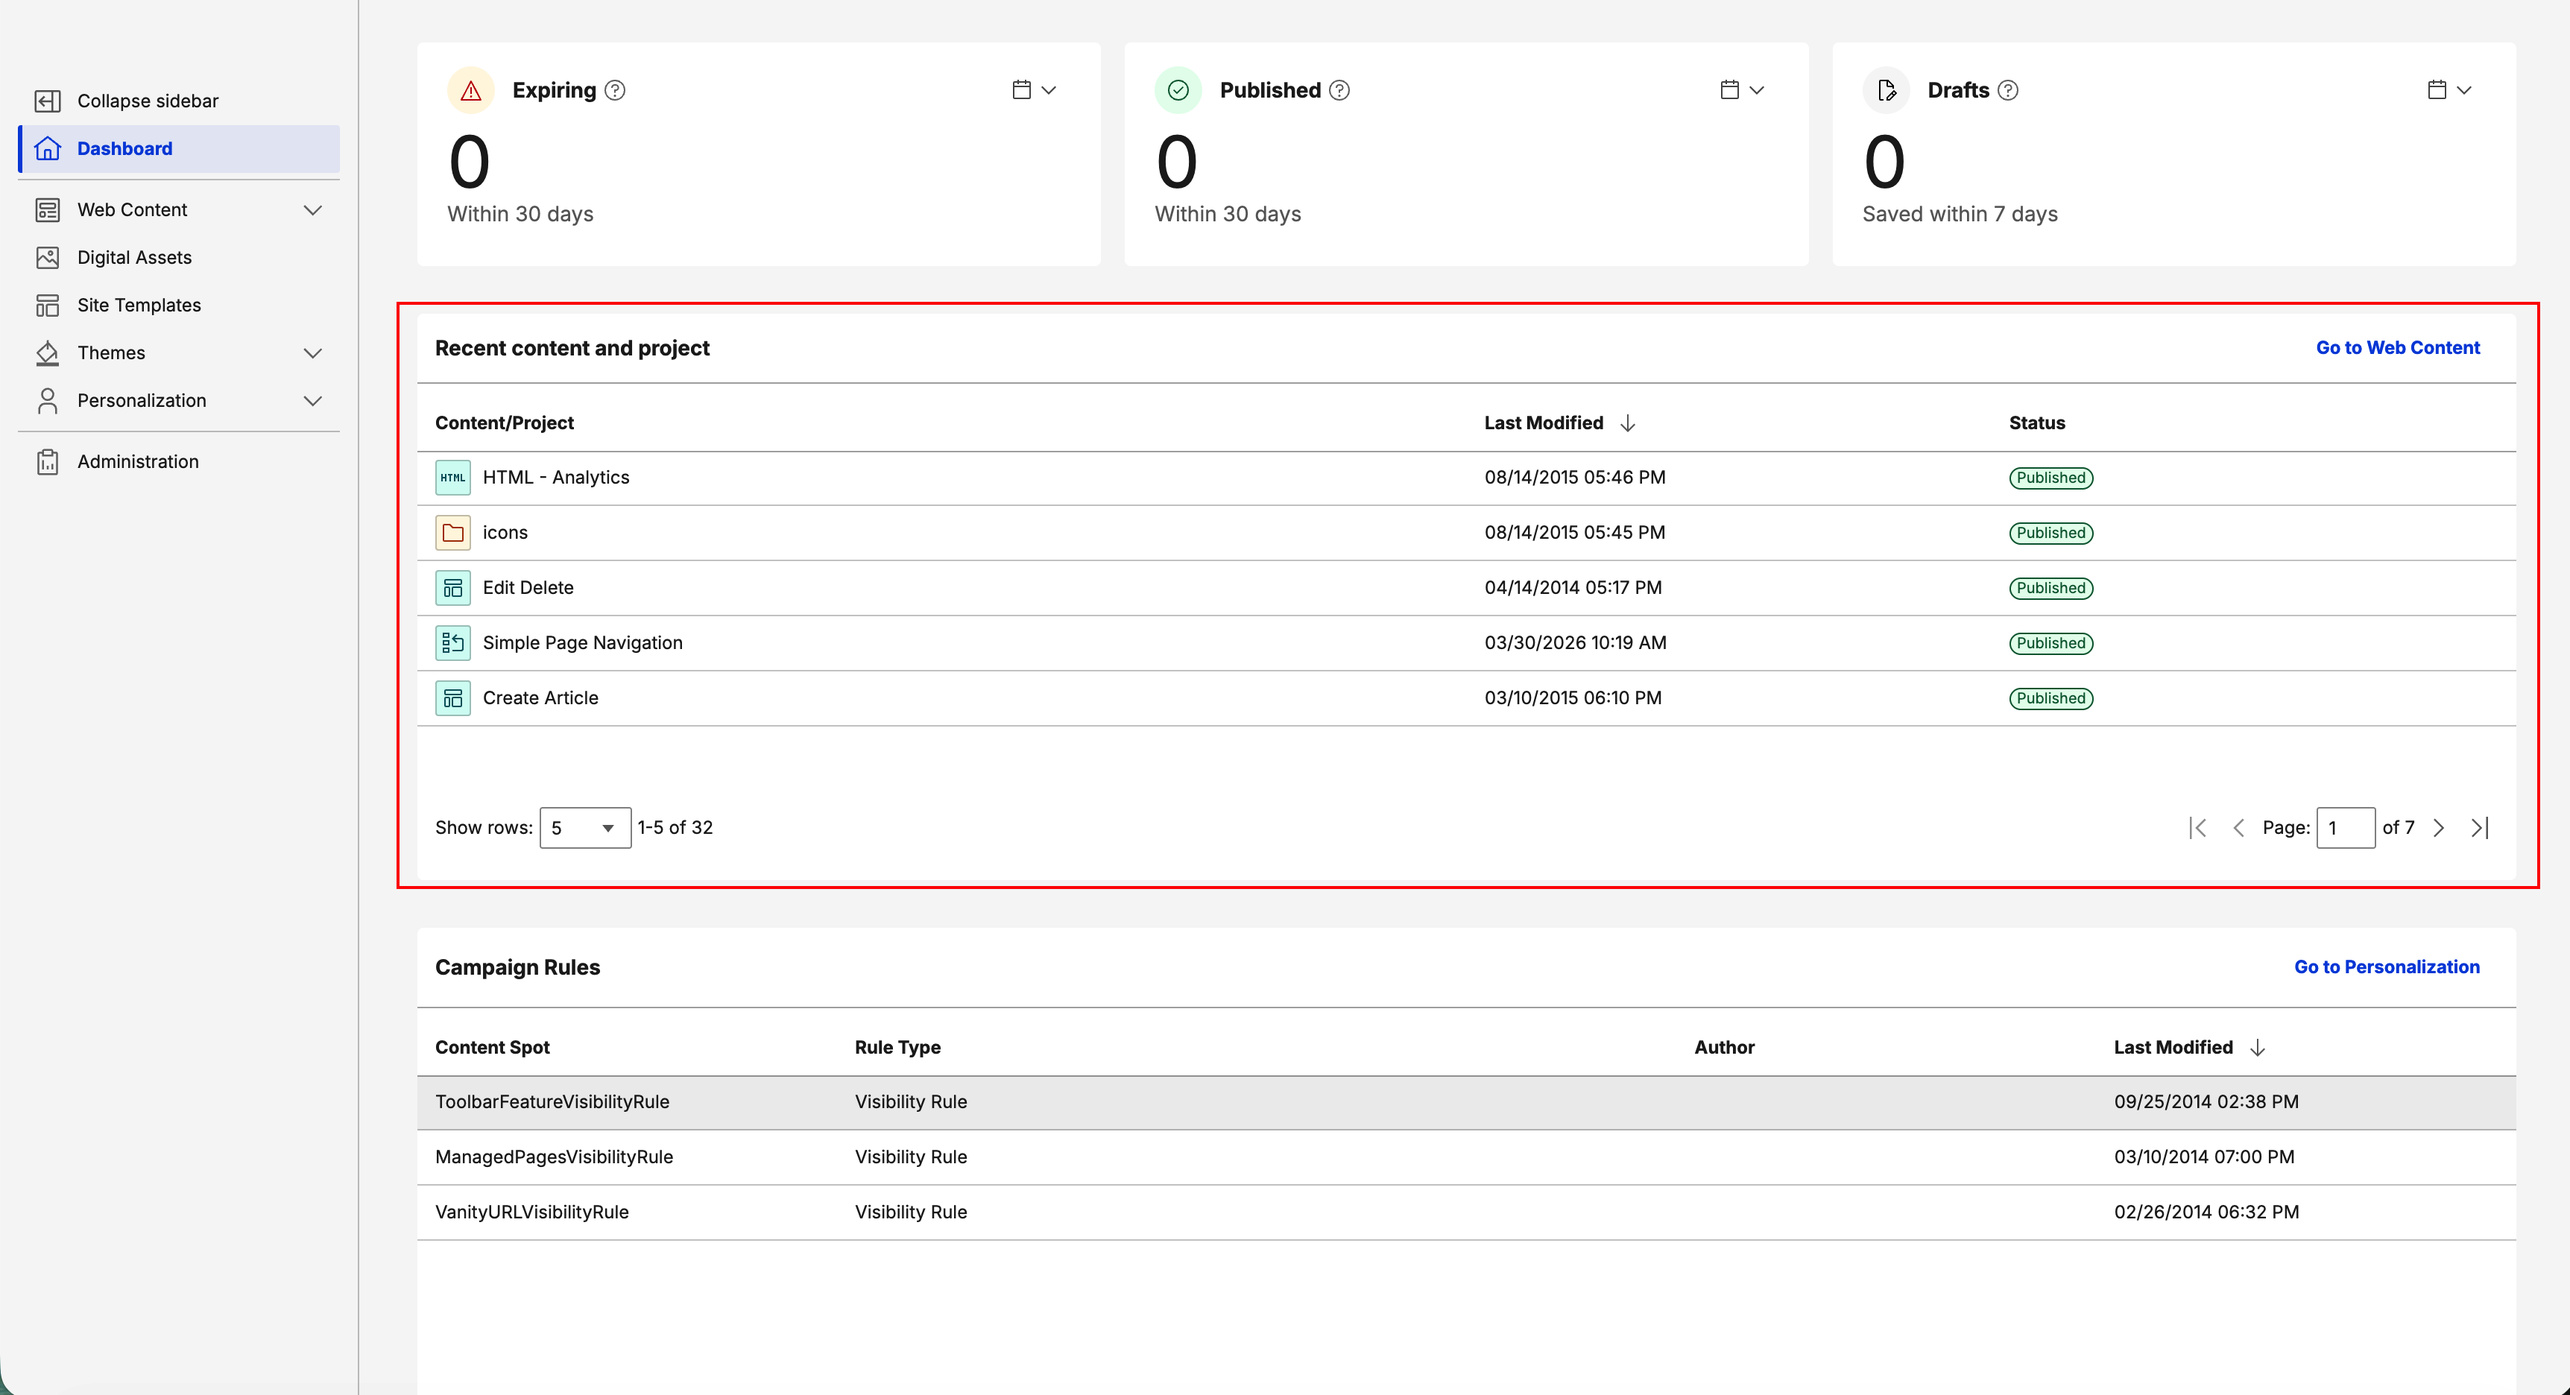
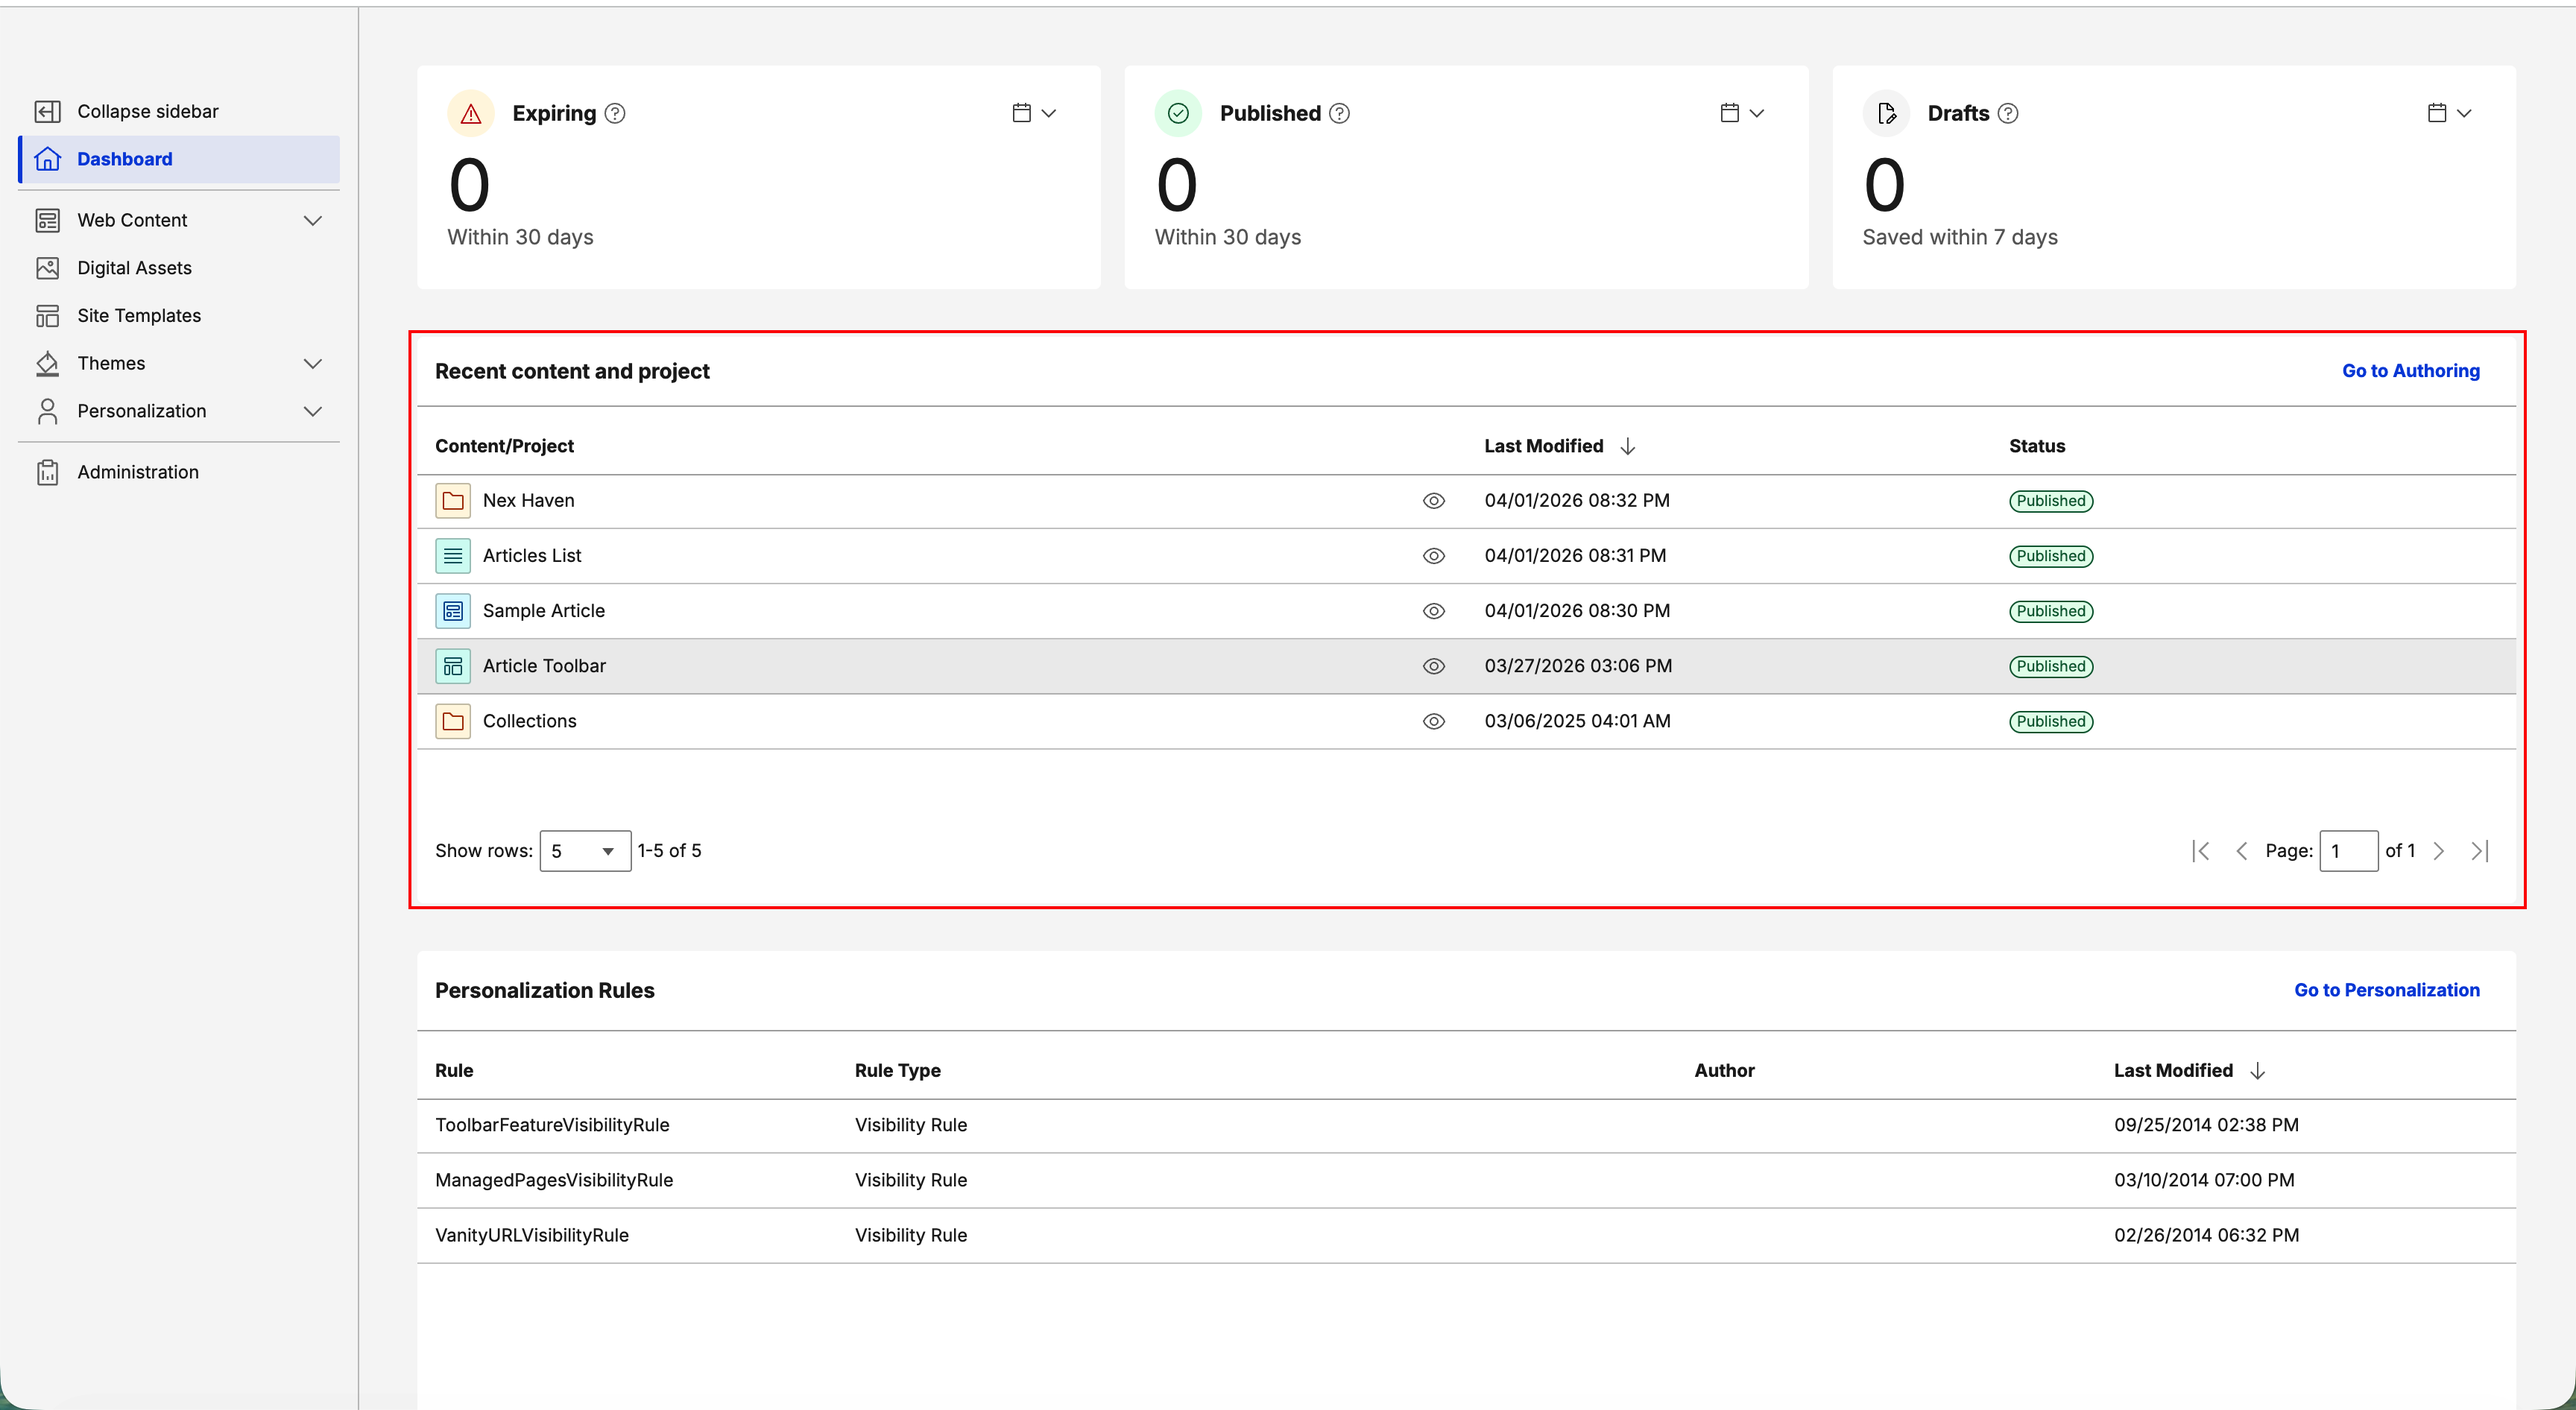
addressing review comments

diff --git a/docs/build_sites/practitioner_studio/dashboard.md b/docs/build_sites/practitioner_studio/dashboard.md
@@ -48,12 +48,13 @@ The Monitor section provides real-time visibility into content status and activi
 
 ## Recent Content and Project
 
-The Recent Content and Project widget provides a comprehensive view of your most recently modified content items and projects. You can click on the eye icon of the content items to view the content directly. A quick link to "Go to Web Content" is available in the top-right corner for quick access to the full Web Content management interface.
+The Recent Content and Project widget provides a comprehensive view of your most recently modified content items and projects. You can click on the eye icon of the content items to view the content directly. A quick link to "Go to Authoring" is available in the top-right corner for quick access to the full Web Content management interface.
 
 ![Recent Content](../../assets/HCL_Practitioner_dashboard_Recent_Content.png)
 
 !!! note 
-    This widget displays only the most recent 50 content items.
+    - This widget displays only the most recent 50 content items.
+    - Each user can see only the recent contents they modified.
 
 
 ## Personalization Rules
@@ -63,7 +64,7 @@ The Personalization Rules widget provides quick access to monitor personalizatio
 ![Personalization Rules](../../assets/HCL_Practitioner_dashboard_Personalization_Rules.png)
 
 !!! note 
-    This widget displays only four rules types: Visibility Rule, Profiler, Select Action, and Binding Rules.
+    This widget displays only four rule types: Visibility Rule, Profiler, Select Action, and Binding Rules.
 
 ## Widget Configuration Parameters
 
@@ -106,7 +107,7 @@ To support the Modern (React-based) Practitioner Studio in newly created Virtual
 
 **Asset Name:** VirtualPortal.zip
 
-The VirtualPortal.zip asset contains all XML files for both Modern and Classic dashboard configurations. The default shared setting uses the Modern PS configuration. To use the Classic (JSP-based) home page, users need to specify the `-preCF234` suffix for the XML file.
+The VirtualPortal.zip asset contains all XML files for both Modern and Classic dashboard configurations. The default shared setting uses the Modern PS configuration. To use the Classic (JSP-based) home page, users need to specify the `-preCF235` suffix for the XML file.
 
 **Default (Modern PS):**
 
@@ -117,19 +118,19 @@ Xml script to create virtual portal content tree:
 WebSphere:assetname=VirtualPortal.zip:InitVirtualContentPortalV9.5NoWoodburn.xml
 ```
 
-**To use Classic (pre-CF234):**
+**To use Classic (pre-CF235):**
 
 Example:
 
 ```
 Xml script to create virtual portal content tree:
-WebSphere:assetname=VirtualPortal.zip:InitVirtualContentPortalV9.5NoWoodburn-preCF234.xml
+WebSphere:assetname=VirtualPortal.zip:InitVirtualContentPortalV9.5NoWoodburn-preCF235.xml
 ```
 
 **Key Points:**
 
 - The VirtualPortal.zip file is maintained containing all XML configurations
-- The `-preCF234` suffix in the XML filename indicates the classic dashboard version
+- The `-preCF235` suffix in the XML filename indicates the classic dashboard version
 - Users can switch between dashboard versions by modifying the XML file reference in the shared setting
 - Existing VPs remain unchanged
 
